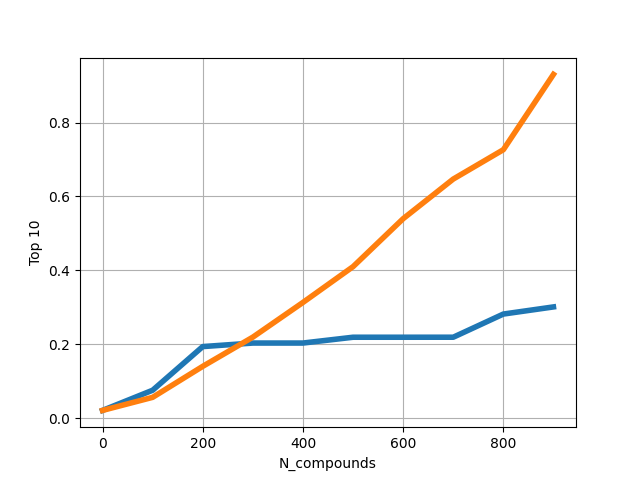
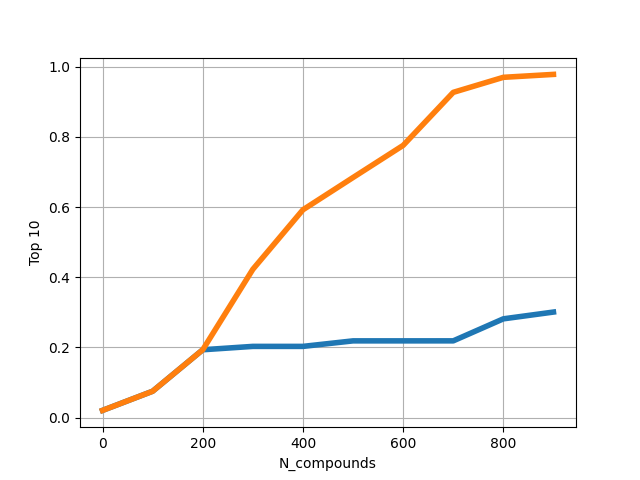
Improvements

diff --git a/solutions/task4/ml_loop.py b/solutions/task4/ml_loop.py
@@ -1,0 +1,85 @@
+"""
+Implementation of AL algorithm that uses ML algorithms to guide the search.
+"""
+from pathlib import Path
+from typing import List
+
+import numpy as np
+from rdkit import Chem, DataStructs
+from rdkit.Chem import AllChem
+from sklearn.ensemble import RandomForestClassifier
+from sklearn.model_selection import train_test_split
+
+from mlinpl_workshops.src.al_loop import Loop, LeadCompound
+from rich.console import Console
+
+console = Console()
+
+class MLLoop(Loop):
+    """
+    Implementation of AL algorithm that uses ML algorithms to guide the search.
+
+    It trains RF internally.
+
+    The algorithm:
+        1. Retrain on all compounds so far
+        2. Propose 10 x n_candidates compounds using base loop
+        3. Evaluate them using ML models.
+        4. Return n_candidates with the highest predicted activity.
+    """
+    def __init__(self, base_dir: Path, base_loop: Loop, n_warmup_iterations: int=1, user_token=None, target="DRD2"):
+        self.base_loop = base_loop
+        self.n_warmup_iterations = n_warmup_iterations
+        super().__init__(base_dir, user_token, target)
+
+    def _featurize(self, smi: List[str]) -> np.ndarray:
+        mols = [Chem.MolFromSmiles(s) for s in smi]
+        fps = [AllChem.GetMorganFingerprintAsBitVect(m, 2, 2048) for m in mols]
+        X = []
+        for fp in fps:
+            arr = np.zeros((1,))
+            DataStructs.ConvertToNumpyArray(fp, arr)
+            X.append(arr)
+        return np.array(X)
+
+    def _train_model(self, previous_results: List[LeadCompound]):
+        """Trains models and assigns to ._model variable."""
+        previous_results = [c for c in previous_results if c.activity != -1]
+        if len(previous_results) == 0:
+            raise ValueError("No previous results to train on (excluded activity = -1). Perhaps your "
+                             "base loop proposes nonsynthetizable compounds?")
+        console.log(f"Retraining model on {len(previous_results)} compounds.")
+        smi = [c.smiles for c in previous_results]
+        X = self._featurize(smi)
+        y = np.array([c.activity for c in previous_results])
+        y = y > np.median(y) # convert to binary. loses information naturally.
+
+        # split using sklearn
+        X_temp, X_test, y_temp, y_test, smi_temp, smi_test = \
+            train_test_split(X, y, smi, test_size=0.3, random_state=42)
+        X_train, X_valid, y_train, y_valid, smi_train, smi_valid = \
+            train_test_split(X_temp, y_temp, smi_temp, test_size=0.3, random_state=42)
+
+        console.log(f"Training set size: {len(X_train)}")
+        console.log(f"Validation set size: {len(X_valid)}")
+        console.log(f"Test set size: {len(X_test)}")
+        console.log(f"Training set activity mean: {np.mean(y_train)}")
+        console.log(f"Proceeding to training Random Forest")
+        rf = RandomForestClassifier(n_estimators=100, random_state=42)
+        rf.fit(X_train, y_train)
+
+        self._model = rf
+
+    def _select_top_N(self, candidates: List[LeadCompound], n_select: int) -> List[LeadCompound]:
+        """Ranks candidates by their predicted activity."""
+        X_test = self._featurize([c.smiles for c in candidates])
+        y_pred = self._model.predict_proba(X_test)[:, 1]
+        return [c for _, c in sorted(zip(y_pred, candidates), reverse=True, key=lambda a: a[0])][:n_select]
+
+    def propose_candidates(self, n_candidates: int) -> List[LeadCompound]:
+        if self.n_iterations < self.n_warmup_iterations:
+            return self.base_loop.propose_candidates(n_candidates)
+
+        previous_results: List[LeadCompound] = self.load()
+        self._train_model(previous_results)
+        return self._select_top_N(self.base_loop.propose_candidates(10 * n_candidates), n_candidates)

diff --git a/solutions/run.py b/solutions/run.py
@@ -1,0 +1,82 @@
+"""Search at random in the space of compounds.
+
+Usage: python solutions/run.py -b 1000 -w random
+"""
+import shutil
+from pathlib import Path
+from typing import List
+
+import argh
+import numpy as np
+from rich.console import Console
+import matplotlib.pylab as plt
+
+from src.al_loop import LeadCompound
+from solutions.task1.random_loop import RandomLoop
+from solutions.task2.mutate_loop import MutateLoop
+from solutions.task4.ml_loop import MLLoop
+
+console = Console()
+
+def run(budget=1000, target="DRD2", purge=False, which="random", steps=10):
+    base_dir = Path("solution_{}_search_budget={}".format(which, budget))
+
+    if purge:
+        shutil.rmtree(base_dir, ignore_errors=True)
+
+    if which == "random":
+        loop = RandomLoop(base_dir=base_dir,
+                          user_token=None,
+                          target=target)
+    elif which == "mutate":
+        # NOTE: Exploration is key for mutate to work
+        examples_per_step = budget // steps
+        n_warmup_iterations = 300 // examples_per_step
+        loop = MutateLoop(base_dir=base_dir,
+                          n_warmup_iterations=n_warmup_iterations,
+                          user_token=None,
+                          target=target)
+    elif which == "mutate_low_exp":
+        # NOTE: Exploration is key for mutate to work
+        loop = MutateLoop(base_dir=base_dir,
+                          n_warmup_iterations=1,
+                          user_token=None,
+                          target=target)
+    elif which == "ml":
+        base_loop = MutateLoop(base_dir=base_dir, user_token=None, target=target)
+        loop = MLLoop(base_dir=base_dir, base_loop=base_loop, target=target)
+    else:
+        raise ValueError(f"Unknown which={which}")
+
+    if loop.n_iterations > 0:
+        raise ValueError("Already run. Please remove the folder solution_random_search to run again.")
+
+    metrics = []
+    all_result: List[LeadCompound] = []
+    budget_per_step = budget // steps
+    assert budget % steps == 0 # for simplicity
+    for step in range(steps):
+        console.print(f"[red]Step {step}[/red]")
+        candidates = loop.propose_candidates(budget_per_step)
+        loop.test_in_lab_and_save(candidates)
+        result: List[LeadCompound] = loop.load(iteration_id=step)
+        all_result += result
+        loop.generate_visualization(iteration_id=step)
+        all_result_sorted = sorted(all_result, key=lambda x: x.activity, reverse=True)
+        metrics.append({"top10": np.mean([x.activity for x in all_result_sorted[:10]]),
+                        "top10_synth": np.mean([x.synth_score for x in all_result_sorted[:10]])})
+
+    # plot metrics using matplotlib and save
+    for k in metrics[0]:
+        plt.plot([i*budget_per_step for i in range(len(metrics))],
+                 [m[k] for m in metrics], linewidth=4)
+        plt.grid()
+        plt.yticks(np.arange(0, 1.1, 0.1))
+        plt.xlabel('N_compounds')
+        plt.ylabel(k)
+        plt.savefig(base_dir / f"{k}.png")
+        plt.close()
+
+
+if __name__ == "__main__":
+    argh.dispatch_command(run)

diff --git a/solutions/task2/mutate_loop.py b/solutions/task2/mutate_loop.py
@@ -21,9 +21,9 @@ console = Console()
 
 class MutateLoop(Loop):
     """Implementation of AL algorithm that mutates top compounds from the previous iterations."""
-    def __init__(self, base_dir: Path, warmup: int, mutate_top_k: int = 10, user_token=None, target="DRD2"):
+    def __init__(self, base_dir: Path, n_warmup_iterations: int = 1, mutate_top_k: int = 10, user_token=None, target="DRD2"):
         self.space = SmallZINC()
-        self.warmup = warmup
+        self.n_warmup_iterations = n_warmup_iterations
         self.mutate_top_k = mutate_top_k
         super().__init__(base_dir, user_token, target)
 
@@ -42,7 +42,7 @@ class MutateLoop(Loop):
         if n_candidates == 0:
             return []
 
-        if len(previous_results) < self.warmup:
+        if self.n_iterations < self.n_warmup_iterations:
             return self._propose_random(n_candidates)
 
         topK_ids = np.argsort([c.activity for c in previous_results])[-self.mutate_top_k:]
@@ -53,8 +53,14 @@ class MutateLoop(Loop):
         m = n_candidates // self.mutate_top_k + 1
         new_compounds = []
         for i in range(self.mutate_top_k):
-            for _ in range(m):
+            new_smiles = []
+            m_target = min(m, n_candidates - len(new_compounds)) # last batch might be smaller
+            while len(new_smiles) != m_target:
                 if len(new_compounds) == n_candidates:
                     break
-                new_compounds.append(decoder(mutate_selfie(selfies[i], max_molecules_len=100)[0]))
+                new_smi = decoder(mutate_selfie(selfies[i], max_molecules_len=100)[0])
+                if new_smi not in new_smiles and new_smi not in new_compounds:
+                    new_smiles.append(new_smi)
+            new_compounds += new_smiles
+        assert len(new_compounds) == n_candidates
         return [LeadCompound(smiles=c) for c in new_compounds]

diff --git a/solutions/task1/random_loop.py b/solutions/task1/random_loop.py
@@ -17,7 +17,11 @@ class RandomLoop(Loop):
         super().__init__(base_dir, user_token, target)
 
     def propose_candidates(self, n_candidates: int) -> List[LeadCompound]:
-        smi = [self.space.try_sample()[0] for _ in range(n_candidates)]
+        smi = []
+        while len(smi) != n_candidates:
+            sampled_smi = self.space.try_sample()[0]
+            if sampled_smi not in smi:
+                smi.append(sampled_smi)
         return [
             LeadCompound(s, None, None) for s in smi
         ]

diff --git a/solutions/task3/compare_random_mutate.py b/solutions/task3/compare_random_mutate.py
@@ -24,7 +24,7 @@ if __name__ == "__main__":
     random_base_dir = Path("solution_{}_search_budget={}".format('random', 1000))
     random_loop = RandomLoop(base_dir=random_base_dir)
     mutate_base_dir = Path("solution_{}_search_budget={}".format('mutate', 1000))
-    mutate_loop = MutateLoop(base_dir=mutate_base_dir, warmup=100, mutate_top_k=10)
+    mutate_loop = MutateLoop(base_dir=mutate_base_dir)
     budget_per_step = 100
 
     for name, loop in [("random", random_loop), ("mutate", mutate_loop)]:

diff --git a/src/al_loop.py b/src/al_loop.py
@@ -88,6 +88,11 @@ class Loop():
 
         The results are saved in base_dir/[date]_lab_results.json."""
         candidates = copy.deepcopy(candidates)
+
+        smi = [c.smiles for c in candidates]
+        if len(set(smi)) != len(smi):
+            raise ValueError("Duplicate SMILES detected.")
+
         self._validate_smiles([c.smiles for c in candidates])
         # try to synthesize
         synthesizability_scores = self.evaluate_synthesizability(candidates)

diff --git a/README.md b/README.md
@@ -4,6 +4,13 @@ You are drug hunter. During the workshops, we will code various version of an ac
 
 Only easy to synthesize are accepted! You have limited # of calls but can synthesize any number
 
+## Agenda
+
+1. 9:00 - 9:20 Introduction 
+2. 9:30 - 10:30 Work on task 1,2,3 
+5. 10:30 - 11:00: What did we learn? Discussion
+6. 11:00 - 11:15 Break
+
 ## 1. Tasks
 
 Your goal will be to create various implementation of active learning. Technically, you will be tasked with code various implementations of the `Loop` base class.
@@ -16,6 +23,10 @@ Given that we have no prior knowledge about the target, we will start with rando
 ### 1.2. Exploration step
 
 Implement mutation based active learning.
+
+Tune hyperparameters to achieve 95% activity on the DRD2 protein in 1000 samples.
+
+Answer: What makes it work, what doesn't? Short discussion will follow.
 
 ### 1.3. ML guided active learning
 
